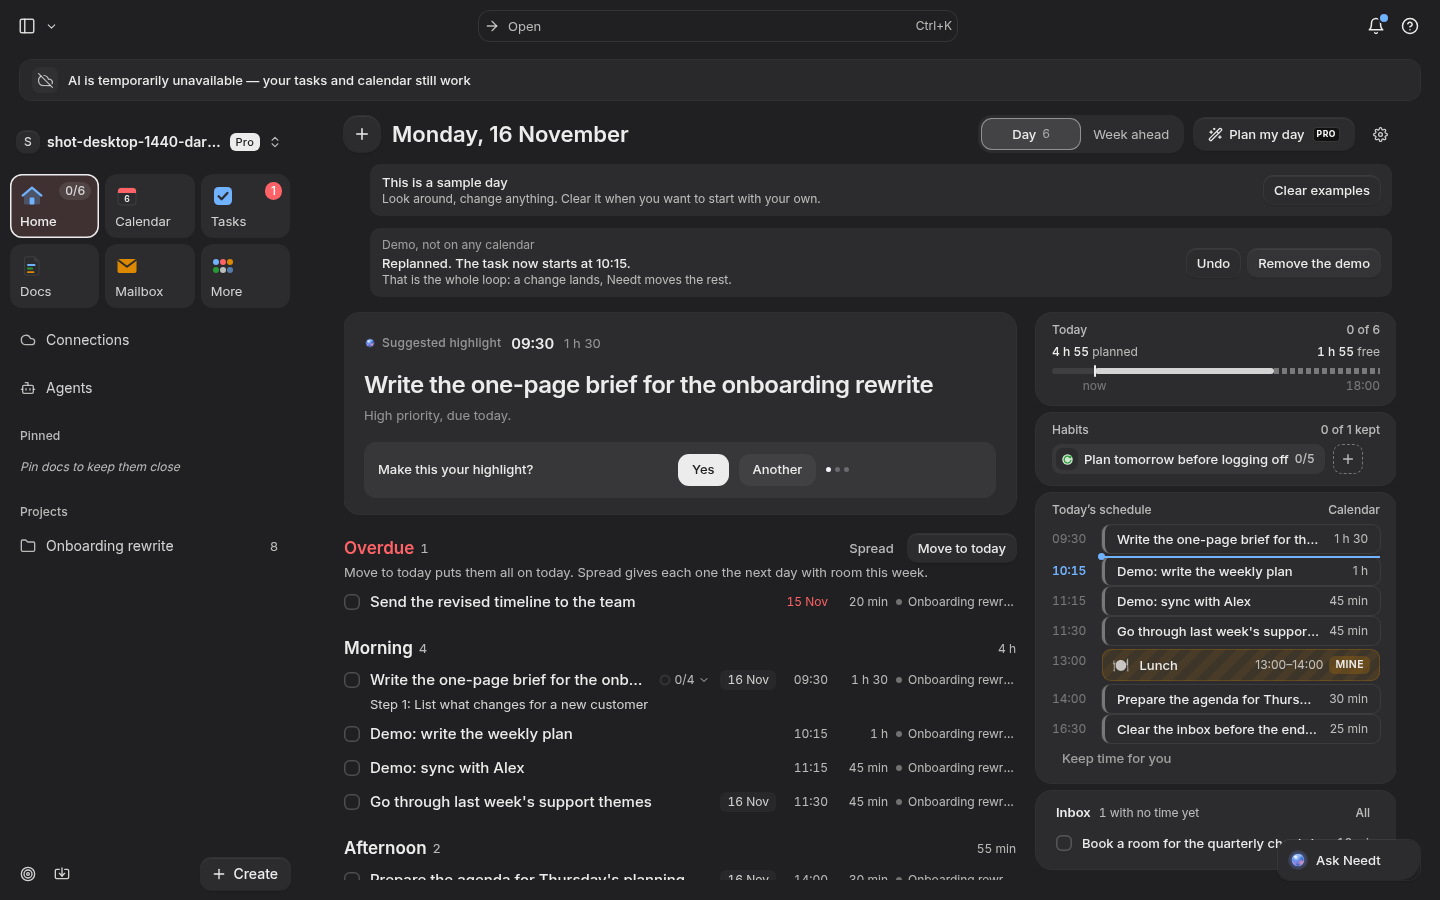
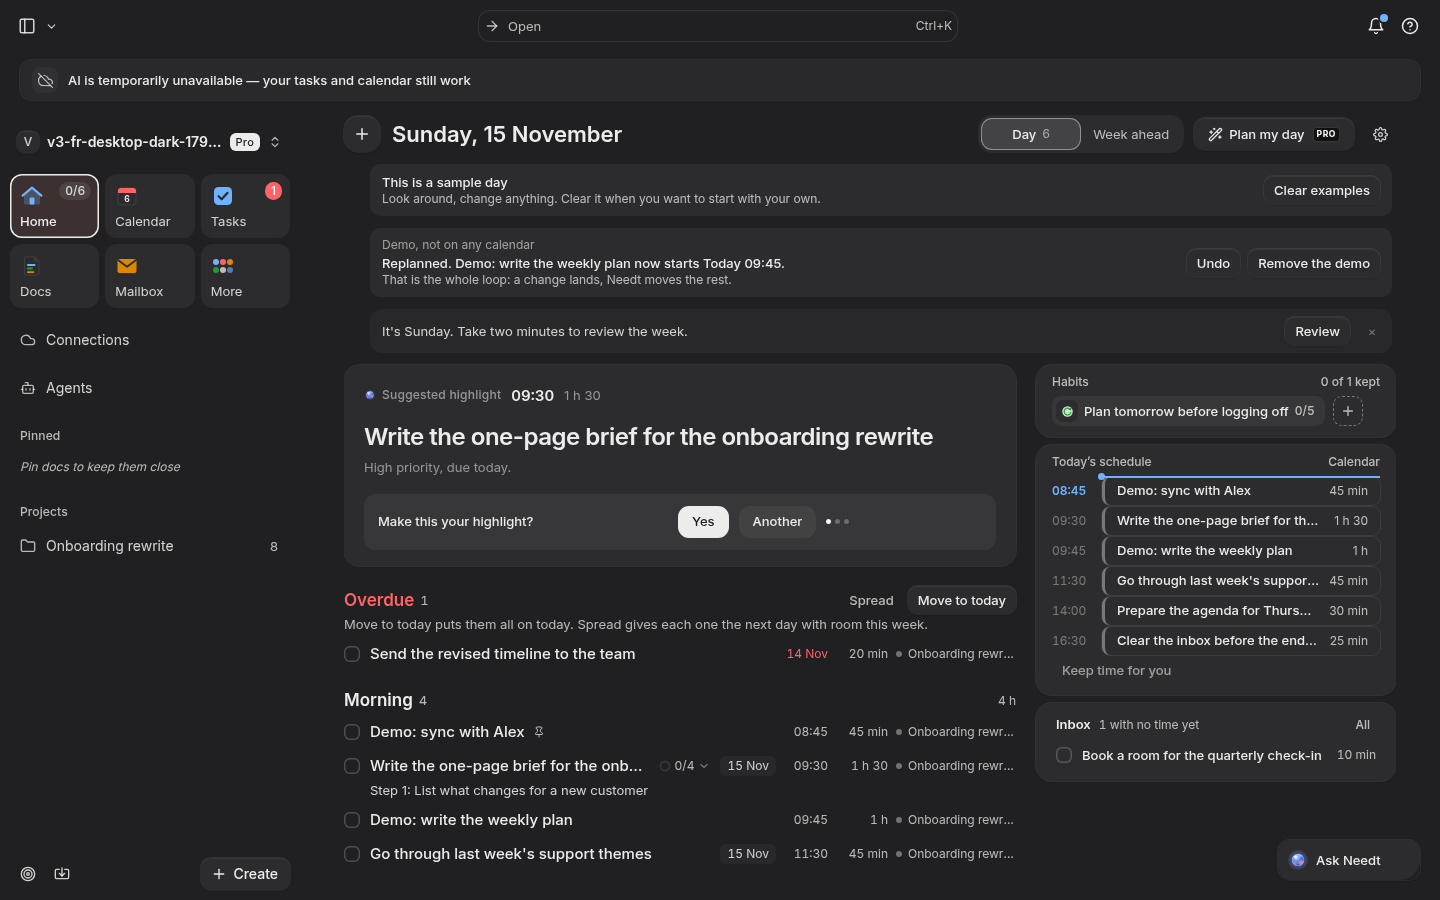
fix(onboarding): lock the demo meeting so the replan moves the task after it; gate review card and nudge; new screenshots

diff --git a/src/services/onboarding/__tests__/first-replan-demo.test.ts b/src/services/onboarding/__tests__/first-replan-demo.test.ts
@@ -265,8 +265,16 @@ describe("seedFirstReplanDemo", () => {
       });
       expect(String(t.title)).toMatch(/^Demo: /);
     }
-    const task = tasks.find((t) => t.isAutoScheduled)!;
-    const meeting = tasks.find((t) => !t.isAutoScheduled)!;
+    const task = tasks.find((t) => !t.scheduleLocked)!;
+    const meeting = tasks.find((t) => t.scheduleLocked)!;
+    // The scheduler counts only a locked auto-scheduled task as busy time, so
+    // the meeting is both; the demo task is the one that is free to move.
+    expect(meeting).toMatchObject({
+      isAutoScheduled: true,
+      scheduleLocked: true,
+    });
+    expect(task).toMatchObject({ isAutoScheduled: true });
+    expect(task.scheduleLocked).not.toBe(true);
     expect(
       overlaps(
         {
@@ -291,7 +299,7 @@ describe("seedFirstReplanDemo", () => {
       { ...input, now: new Date("2026-11-18T04:00:00Z") },
       db
     );
-    const task = tasks.find((t) => t.isAutoScheduled)!;
+    const task = tasks.find((t) => !t.scheduleLocked)!;
     expect(
       new Intl.DateTimeFormat("en-GB", {
         timeZone: "Europe/Zurich",
@@ -357,8 +365,8 @@ describe("firstReplanState", () => {
     expect(before?.task.title).toBe("Demo: write the weekly plan");
     expect(before?.meeting.title).toBe("Demo: sync with Alex");
 
-    const task = tasks.find((t) => t.isAutoScheduled)!;
-    const meeting = tasks.find((t) => !t.isAutoScheduled)!;
+    const task = tasks.find((t) => !t.scheduleLocked)!;
+    const meeting = tasks.find((t) => t.scheduleLocked)!;
     const end = meeting.scheduledEnd as Date;
     task.scheduledStart = end;
     task.scheduledEnd = new Date(end.getTime() + 3_600_000);
@@ -376,7 +384,7 @@ describe("firstReplanState", () => {
       db
     );
     tasks.splice(
-      tasks.findIndex((t) => !t.isAutoScheduled),
+      tasks.findIndex((t) => t.scheduleLocked),
       1
     );
     expect(await firstReplanState("u1", db)).toBeNull();

diff --git a/src/services/onboarding/first-replan-demo.ts b/src/services/onboarding/first-replan-demo.ts
@@ -252,7 +252,11 @@ export async function seedFirstReplanDemo(
         "A demo meeting. It is not on any calendar. Remove the demo any time.",
       estimatedMinutes: MEETING_MINUTES,
       duration: MEETING_MINUTES,
-      isAutoScheduled: false,
+      // The scheduler only treats a locked auto-scheduled task (or a calendar
+      // event) as busy time. Locked, the meeting stays where it is and the
+      // demo task has to move around it: that is the whole demo.
+      isAutoScheduled: true,
+      scheduleLocked: true,
       scheduledStart: slot.meetingStart,
       scheduledEnd: slot.meetingEnd,
     },
@@ -288,13 +292,13 @@ export async function firstReplanState(
     select: {
       id: true,
       title: true,
-      isAutoScheduled: true,
+      scheduleLocked: true,
       scheduledStart: true,
       scheduledEnd: true,
     },
   });
-  const task = rows.find((r) => r.isAutoScheduled);
-  const meeting = rows.find((r) => !r.isAutoScheduled);
+  const task = rows.find((r) => !r.scheduleLocked);
+  const meeting = rows.find((r) => r.scheduleLocked);
   if (
     !task?.scheduledStart ||
     !task.scheduledEnd ||

diff --git a/src/lib/needt3/__tests__/row-flip.dom.test.ts b/src/lib/needt3/__tests__/row-flip.dom.test.ts
@@ -38,6 +38,15 @@ it("measures the row from the bottom of the card", () => {
   expect(measureRow("t1")).toBeNull();
 });
 
+it("finds a phone row by data-pk-row", () => {
+  document.body.innerHTML = `<section data-hd-first-replan></section><div data-pk-row="t1"></div>`;
+  document.querySelector("[data-hd-first-replan]")!.getBoundingClientRect =
+    () => rect(0, 50);
+  document.querySelector("[data-pk-row]")!.getBoundingClientRect = () =>
+    rect(200);
+  expect(measureRow("t1")).toBe(150);
+});
+
 it("slides the row with transform and opacity in at most 250 ms", () => {
   mount(100, 400); // now 300 below the card
   expect(flipRow("t1", 120)).toBe(true); // was 120 below the card

diff --git a/src/components/needt3/home/HomeScreen.tsx b/src/components/needt3/home/HomeScreen.tsx
@@ -786,10 +786,10 @@ function DesktopHome({ ctl }: { ctl: HomeController }) {
           <OnboardingResumeBanner />
           <SampleBanner />
           <FirstReplanCard />
-          {review.show ? (
+          {review.show && !firstReplanHold ? (
             <ReviewCard onStart={review.start} onLater={review.later} />
           ) : null}
-          {nudge.show ? (
+          {nudge.show && !firstReplanHold ? (
             <EndDayNudge onEndDay={finish.show} onDismiss={nudge.dismiss} />
           ) : null}
           {haBrief.locked || haBrief.lines.length || haBrief.note ? (

diff --git a/src/components/needt3/phone/home/PhoneHome.tsx b/src/components/needt3/phone/home/PhoneHome.tsx
@@ -428,10 +428,10 @@ export function PhoneHome({ ctl }: { ctl: HomeController }) {
       <OnboardingResumeBanner />
       <SampleBanner />
       <FirstReplanCard />
-      {ready && review.show ? (
+      {ready && review.show && !firstReplanHold ? (
         <ReviewCard phone onStart={review.start} onLater={review.later} />
       ) : null}
-      {ready && nudge.show ? (
+      {ready && nudge.show && !firstReplanHold ? (
         <EndDayNudge phone onEndDay={finish.show} onDismiss={nudge.dismiss} />
       ) : null}
       {ready ? (

diff --git a/src/lib/needt3/row-flip.ts b/src/lib/needt3/row-flip.ts
@@ -15,7 +15,10 @@ export const ROW_FLIP_MS = 220;
 const ANCHOR = "[data-hd-first-replan]";
 
 function rowOf(id: string): HTMLElement | null {
-  return document.querySelector<HTMLElement>(`[data-task="${id}"]`);
+  // Desktop rows carry data-task, phone rows data-pk-row.
+  return document.querySelector<HTMLElement>(
+    `[data-task="${id}"], [data-pk-row="${id}"]`
+  );
 }
 
 export function prefersReducedMotion(): boolean {
